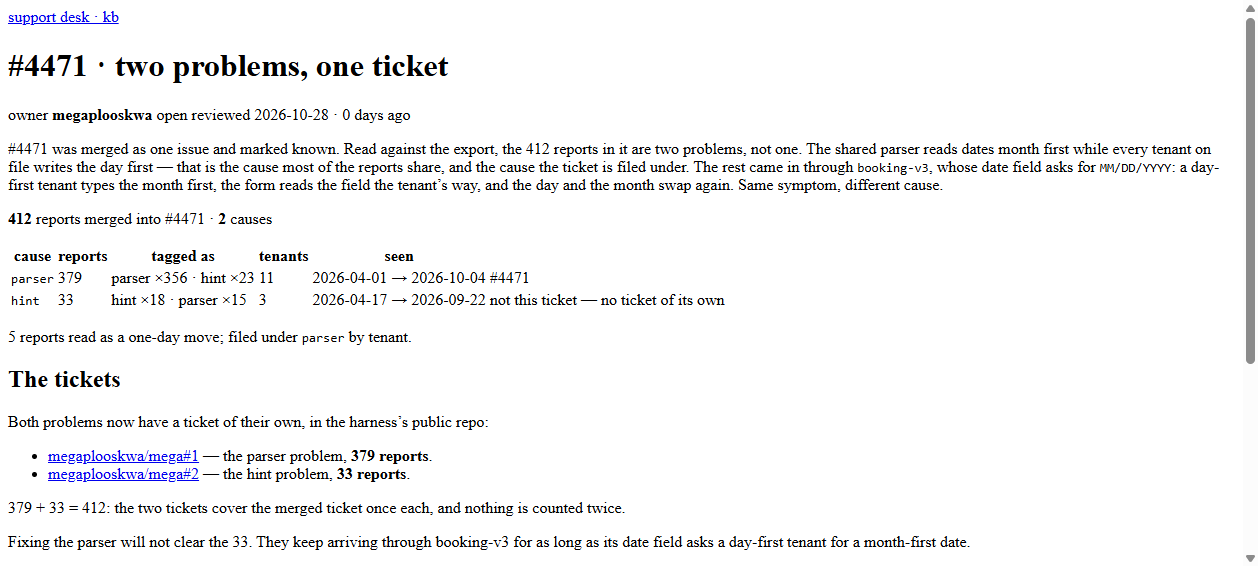
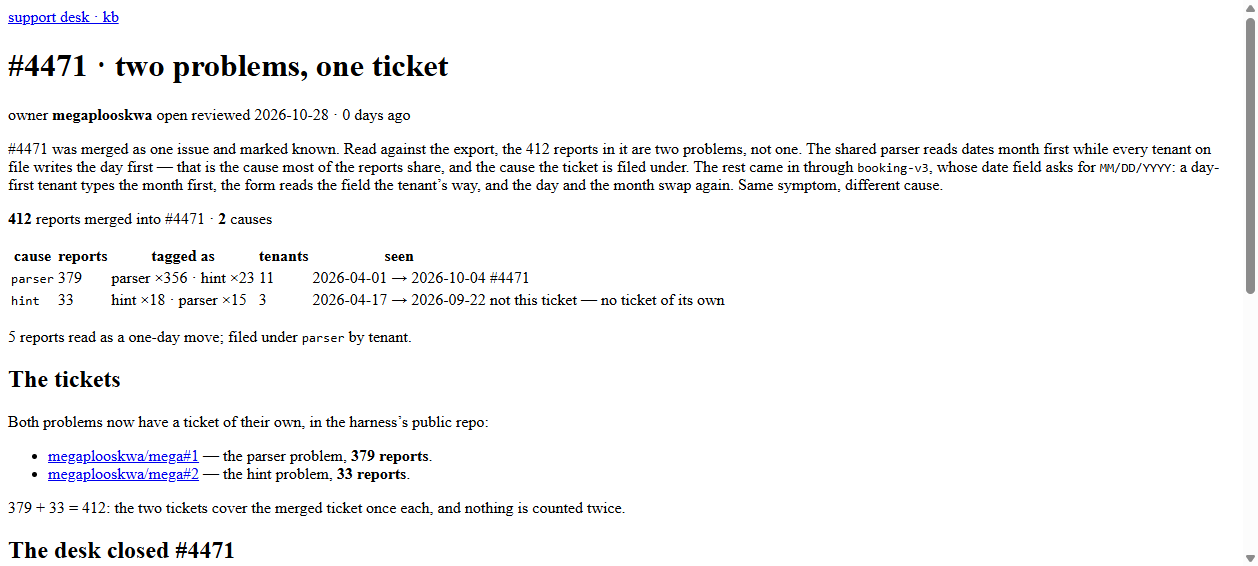
Record the desk's update: #4471 closed, parser fixed, hint won't fix
Both tickets closed to match (#1 completed, #2 not planned).

Changed region(s): [[0.0, 0.9311, 0.775, 0.9912], [0.9921, 0.5106, 1.0, 0.6608]]

diff --git a/rendered/4471-two-problems.html b/rendered/4471-two-problems.html
@@ -12,8 +12,10 @@ two problems, not one. The shared parser reads dates month first while every ten
 the day first — that is the cause most of the reports share, and the cause the ticket is filed
 under. The rest came in through <code>booking-v3</code>, whose date field asks for <code>MM/DD/YYYY</code>: a day-first
 tenant types the month first, the form reads the field the tenant’s way, and the day and the month
-swap again. Same symptom, different cause.</p> <p class="sum svelte-12oyimm"><strong>412</strong> reports merged into #4471 · <strong>2</strong> causes</p> <table><thead><tr><th>cause</th><th>reports</th><th>tagged as</th><th>tenants</th><th>seen</th><th></th></tr></thead><tbody><!--[--><tr class="svelte-12oyimm"><td class="svelte-12oyimm"><code>parser</code></td><td class="svelte-12oyimm">379</td><td class="tags svelte-12oyimm">parser ×356 · hint ×23</td><td class="svelte-12oyimm">11</td><td class="svelte-12oyimm">2026-04-01 → 2026-10-04</td><td class="svelte-12oyimm">#4471</td></tr><tr class="svelte-12oyimm wrong"><td class="svelte-12oyimm"><code>hint</code></td><td class="svelte-12oyimm">33</td><td class="tags svelte-12oyimm">hint ×18 · parser ×15</td><td class="svelte-12oyimm">3</td><td class="svelte-12oyimm">2026-04-17 → 2026-09-22</td><td class="svelte-12oyimm">not this ticket — no ticket of its own</td></tr><!--]--></tbody></table> <!--[--><!--[0--><p class="note svelte-12oyimm">5 reports read as a one-day move; filed under <code>parser</code> by tenant.</p><!--]--><!--[-1--><!--]--><!--]--><!----> <h2>The tickets</h2> <p>Both problems now have a ticket of their own, in the harness’s public repo:</p> <ul><li><a href="https://github.com/megaplooskwa/mega/issues/1" rel="nofollow">megaplooskwa/mega#1</a> — the parser problem, <strong>379 reports</strong>.</li> <li><a href="https://github.com/megaplooskwa/mega/issues/2" rel="nofollow">megaplooskwa/mega#2</a> — the hint problem, <strong>33 reports</strong>.</li></ul> <p>379 + 33 = 412: the two tickets cover the merged ticket once each, and nothing is counted twice.</p> <aside class="warn svelte-17bri61"><!---->Fixing the parser will not clear the 33. They keep arriving through booking-v3 for as long as its
-date field asks a day-first tenant for a month-first date.<!----></aside><!----> <h2>How the numbers were counted</h2> <p>Nothing here is typed in by hand. <code>CauseTable</code> computes the groups from the export at render time: <code>uniqueById</code> first (the export repeats rows across pages — 427 rows are 412 reports), then <code>causeOf</code> for each report, from its channel and its tenant’s booking form. The 5 reports the desk
+swap again. Same symptom, different cause.</p> <p class="sum svelte-12oyimm"><strong>412</strong> reports merged into #4471 · <strong>2</strong> causes</p> <table><thead><tr><th>cause</th><th>reports</th><th>tagged as</th><th>tenants</th><th>seen</th><th></th></tr></thead><tbody><!--[--><tr class="svelte-12oyimm"><td class="svelte-12oyimm"><code>parser</code></td><td class="svelte-12oyimm">379</td><td class="tags svelte-12oyimm">parser ×356 · hint ×23</td><td class="svelte-12oyimm">11</td><td class="svelte-12oyimm">2026-04-01 → 2026-10-04</td><td class="svelte-12oyimm">#4471</td></tr><tr class="svelte-12oyimm wrong"><td class="svelte-12oyimm"><code>hint</code></td><td class="svelte-12oyimm">33</td><td class="tags svelte-12oyimm">hint ×18 · parser ×15</td><td class="svelte-12oyimm">3</td><td class="svelte-12oyimm">2026-04-17 → 2026-09-22</td><td class="svelte-12oyimm">not this ticket — no ticket of its own</td></tr><!--]--></tbody></table> <!--[--><!--[0--><p class="note svelte-12oyimm">5 reports read as a one-day move; filed under <code>parser</code> by tenant.</p><!--]--><!--[-1--><!--]--><!--]--><!----> <h2>The tickets</h2> <p>Both problems now have a ticket of their own, in the harness’s public repo:</p> <ul><li><a href="https://github.com/megaplooskwa/mega/issues/1" rel="nofollow">megaplooskwa/mega#1</a> — the parser problem, <strong>379 reports</strong>.</li> <li><a href="https://github.com/megaplooskwa/mega/issues/2" rel="nofollow">megaplooskwa/mega#2</a> — the hint problem, <strong>33 reports</strong>.</li></ul> <p>379 + 33 = 412: the two tickets cover the merged ticket once each, and nothing is counted twice.</p> <h2>The desk closed #4471</h2> <p>On 5 October the desk closed #4471 and answered the two problems, one each way:</p> <table><thead><tr><th>cause</th><th>desk</th><th>reason</th></tr></thead><tbody><tr><td><code>parser</code></td><td>fixed</td><td><code>fix(dates): parse dd/mm for eu locales</code></td></tr><tr><td><code>hint</code></td><td>won’t fix</td><td><code>booking-v3 form retired</code></td></tr></tbody></table> <p>The fix answers the 379. Retiring the form ends the 33 rather than repairing them: the field that
+asked a day-first tenant for a month-first date is gone. Both tickets are closed to match — #1 as
+completed, #2 as not planned.</p> <aside class="warn svelte-17bri61"><!---->Closed is not the same as counted. The 33 were never the parser's, so a fix for the parser would
+have closed them without touching them.<!----></aside><!----> <h2>How the numbers were counted</h2> <p>Nothing here is typed in by hand. <code>CauseTable</code> computes the groups from the export at render time: <code>uniqueById</code> first (the export repeats rows across pages — 427 rows are 412 reports), then <code>causeOf</code> for each report, from its channel and its tenant’s booking form. The 5 reports the desk
 read as a one-day move stay where they are filed, under <code>parser</code>, and are footnoted under the table.</p> <p>The two causes split by tenant form, not by country:</p> <table><thead><tr><th>tenant form</th><th>date hint</th><th>reports</th><th>cause</th></tr></thead><tbody><tr><td>booking-v2</td><td><code>DD/MM/YYYY</code></td><td>379</td><td><code>parser</code></td></tr><tr><td>booking-v3</td><td><code>MM/DD/YYYY</code></td><td>33</td><td><code>hint</code></td></tr></tbody></table> <!--[0--><p class="stamp svelte-1280m42">desk ref <b class="svelte-1280m42">DR-WCP1-ZDT3</b></p><!--]--><!----><!----></main> <footer class="svelte-e2jw2j">Pages are written by people. Tables and charts are built from data at render time.</footer></div><!--]-->
 </body>
 </html>

diff --git a/README.md b/README.md
@@ -19,6 +19,10 @@ covers, and adds a signed page about them to the kb.
 
 379 + 33 = 412 — the two problems the merged ticket actually holds, counted once each.
 
+The desk closed #4471 on 5 October: `parser` **fixed** (`fix(dates): parse dd/mm for eu locales`),
+`hint` **won't fix** (`booking-v3 form retired`). Both tickets are closed to match — #1 as
+completed, #2 as not planned.
+
 ## The page
 
 - source: [`support-kb/src/routes/kb/incidents/4471-two-problems/+page.svx`](support-kb/src/routes/kb/incidents/4471-two-problems/+page.svx)
